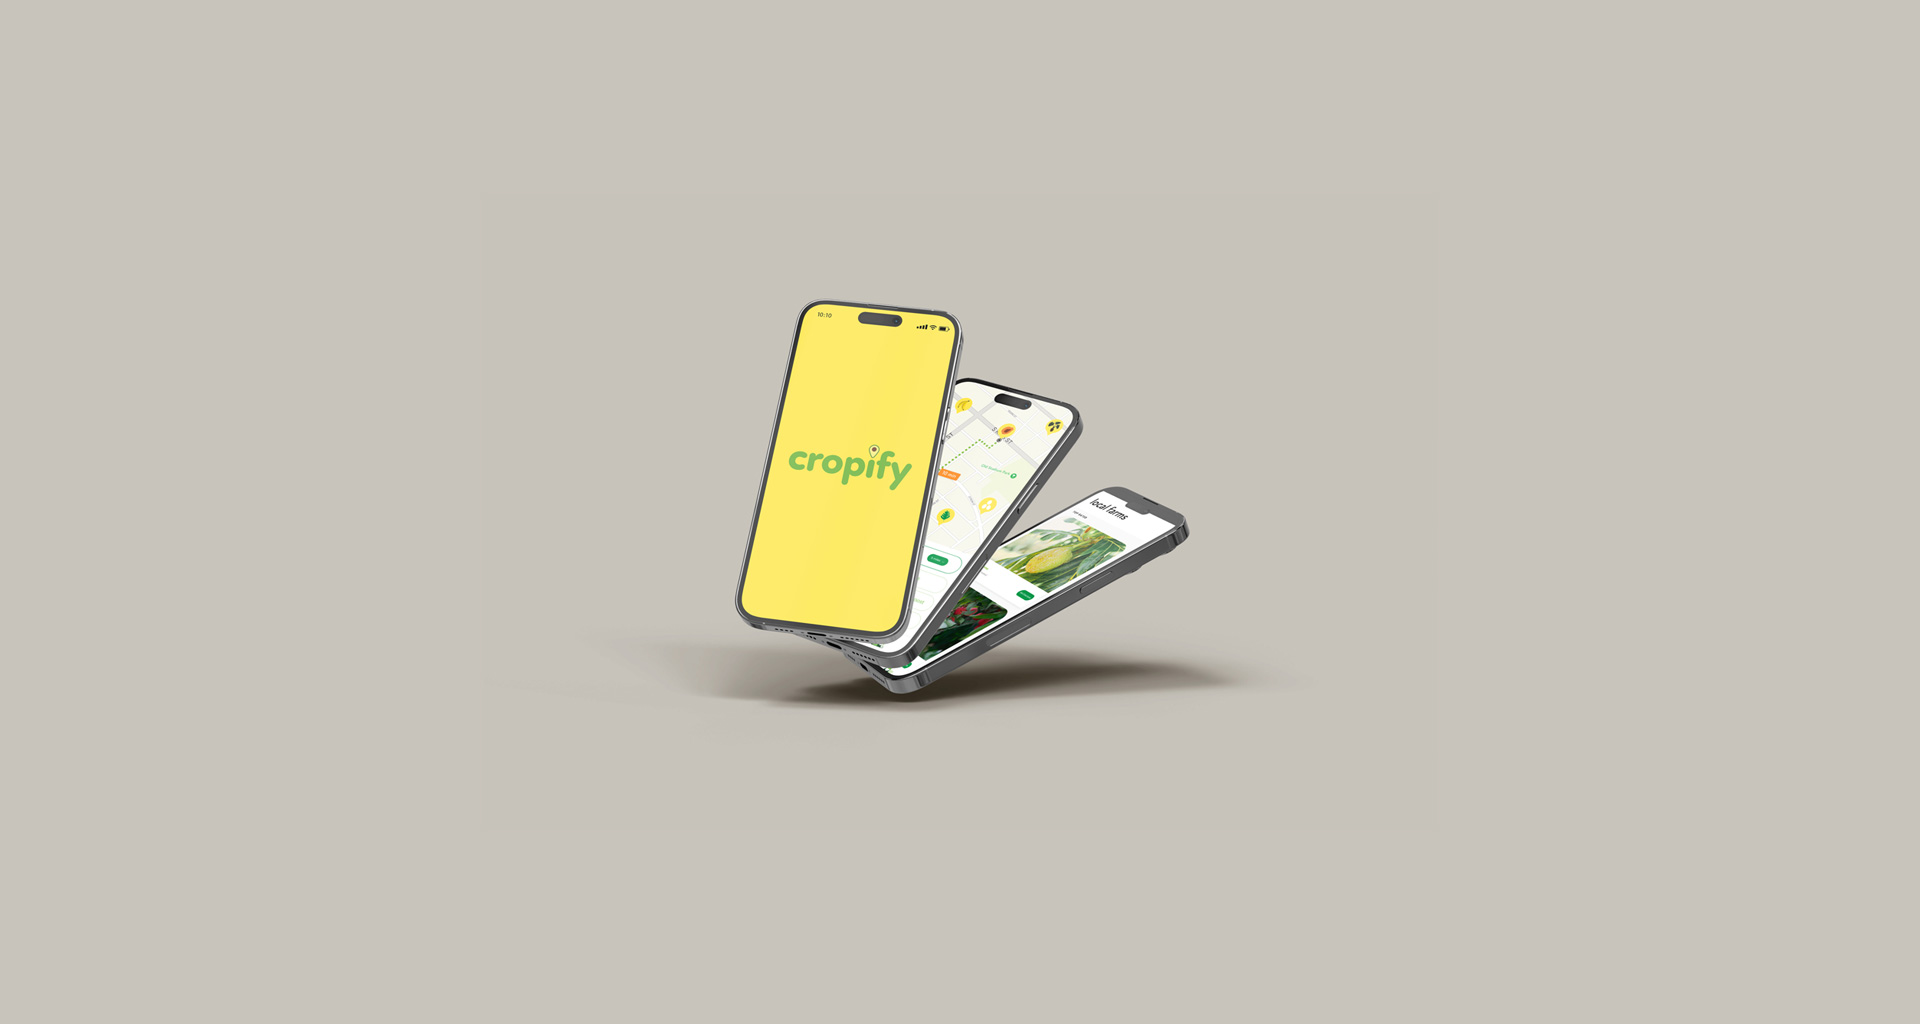
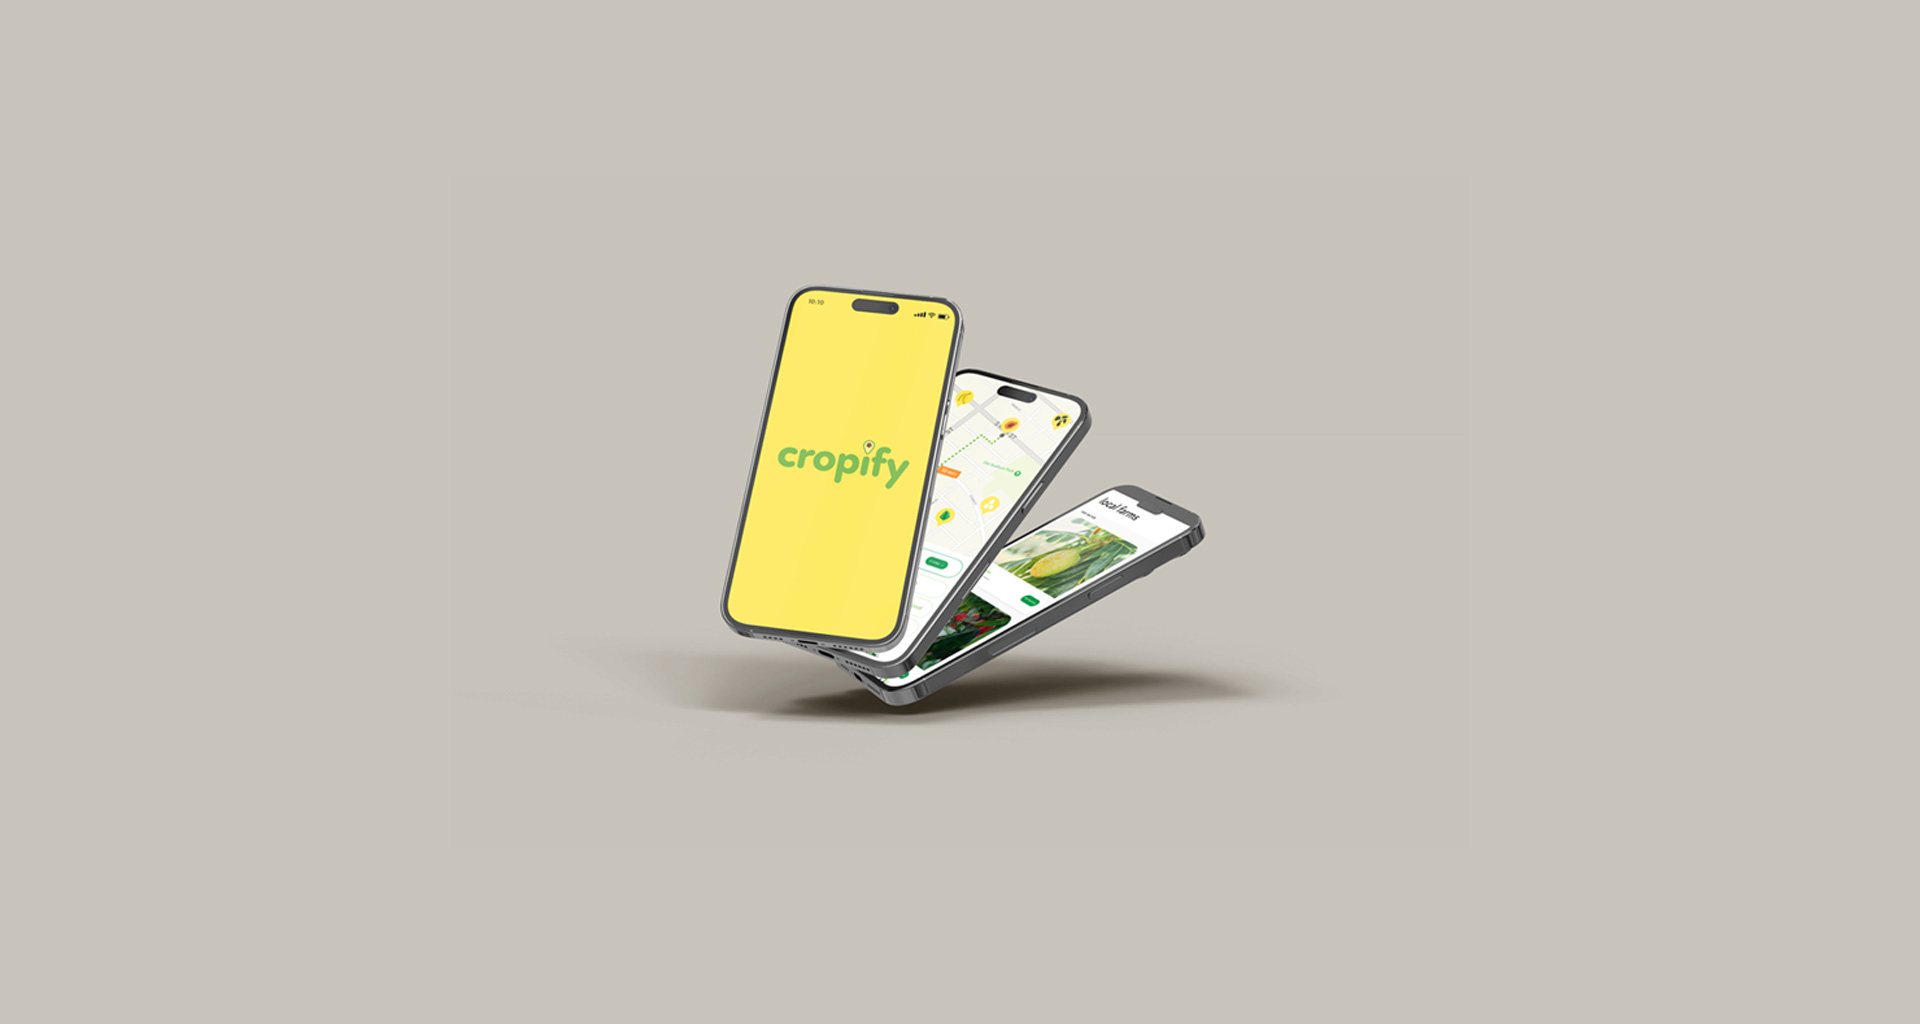
with melissa

Changed region(s): [[0.375, 0.2812, 0.6562, 0.7188]]

diff --git a/hierrlogo.html b/hierrlogo.html
@@ -16,6 +16,11 @@
     <!-- ADOBE FONTS -->
     <link rel="stylesheet" href="https://use.typekit.net/mwq8yta.css">
 
+    <!-- SWIPER JS CSS -->
+    <link rel="stylesheet" href="https://cdn.jsdelivr.net/npm/swiper@11/swiper-bundle.min.css" />
+
+    <script src="https://cdn.jsdelivr.net/npm/swiper@11/swiper-bundle.min.js"></script>
+
     <!-- MAIN CSS FILE -->
     <link href="css/style.css" rel="stylesheet" type="text/css" />
 
@@ -87,11 +92,13 @@
                         </p>
                     </div>
                 </div>
+
+
+                <div class="container hr_"></div>
+
+
             </div>
         </section>
-
-
-        <div class="container hr_"></div>
 
 
         <section>
@@ -117,9 +124,9 @@
         <div class="container hr_"></div>
 
 
-        <section>
+        <section class="brainstorm">
             <div class="container">
-                <div class="row">
+                <div class="row swapped">
                     <div class="col-6">
                         <h3 class="section-title">BRAINSTORM PROCESS</h3>
                         <p>These visuals offer a snapshot of my creative process, displaying various art boards
@@ -129,44 +136,34 @@
                     </div>
                 </div>
 
-                <div class="row">
-                    <div class="col-8">
-                        <div class="video-iframe">
-                            <video class="responsive-iframe" width="382" height="786" style="background-color: #fff;"
-                                src="img/hierrdrafts.mp4" autoplay muted loop playsinline preload></video>
-                        </div>
+
+                <!-- Slider main container -->
+                <div class="swiper">
+                    <!-- Additional required wrapper -->
+                    <div class="swiper-wrapper">
+                        <!-- Slides -->
+
+                        <div class="swiper-slide"><img src="img/logodraft1.jpg" alt=""></div>
+                        <div class="swiper-slide"><img src="img/logodraft2.jpg" alt=""></div>
+                        <div class="swiper-slide"><img src="img/logodraft3.jpg" alt=""></div>
+                        <div class="swiper-slide"><img src="img/logodraft4.jpg" alt=""></div>
+                        <div class="swiper-slide"><img src="img/logodraft5.jpg" alt=""></div>
+                        <div class="swiper-slide"><img src="img/logodraft6.jpg" alt=""></div>
+                        <div class="swiper-slide"><img src="img/logodraft7.jpg" alt=""></div>
+                        <div class="swiper-slide"><img src="img/logodraft8.jpg" alt=""></div>
+                        <div class="swiper-slide"><img src="img/logodraft9.jpg" alt=""></div>
+                        ...
                     </div>
+                    <!-- If we need pagination -->
+                    <div class="swiper-pagination"></div>
 
+                    <!-- If we need navigation buttons -->
+                    <div class="swiper-button-prev"></div>
+                    <div class="swiper-button-next"></div>
 
-                    <!-- Slider main container -->
-                    <div class="swiper">
-                        <!-- Additional required wrapper -->
-                        <div class="swiper-wrapper">
-                            <!-- Slides -->
-                            <div class="swiper-slide">
-                                <img src="https://source.unsplash.com/3tYZjGSBwbk" alt="unsplash" alt="">
-                            </div>
+                </div>
 
-                            <div class="swiper-slide">
-                                <img src="https://source.unsplash.com/3tYZjGSBwbk" alt="unsplash" alt="">
-                            </div>
-
-                            <div class="swiper-slide">
-                                <img src="https://source.unsplash.com/3tYZjGSBwbk" alt="unsplash" alt="">
-                            </div>
-
-                            <!-- If we need pagination -->
-                            <div class="swiper-pagination"></div>
-
-                            <div class="swiper-button-prev"></div>
-                            <div class="swiper-button-next"></div>
-
-                        </div>
-
-
-
-
-                    </div>
+            </div>
         </section>
 
 
@@ -259,6 +256,9 @@
         </nav>
 
     </footer>
+
+    <script src="https://cdn.jsdelivr.net/npm/swiper@11/swiper-bundle.min.js"></script>
+    <script src="js/script.js"></script>
 
 </body>
 

diff --git a/bookcovers.html b/bookcovers.html
@@ -65,11 +65,11 @@
                         </ul>
                     </div>
                     <div class="col-7">
-                        <h1><em>This is Love</em> Book Jackets</h1>
-                        <h3 class="subheader">Podcasts turned book covers.</h3>
+                        <h1><span class="font-italic">This is Love</span> Book&nbsp;Jackets</h1>
+                        <h3 class="subheader">Podcasts turned book covers</h3>
                         <h2>The Challenge</h2>
                         <p>I was challenged to design cohesive book jackets that conceptually represented two stories
-                            from the podcast <em>This is Love.</em></p>
+                            from the podcast <i>This is Love.</i></p>
 
                         <h2>The Solution</h2>
                         <p>
@@ -82,13 +82,17 @@
                         </p>
                     </div>
                 </div>
+
+                <div class="container hr_"></div>
+
             </div>
         </section>
 
+
         <section class="brainstorm">
             <div class="container">
-                <div class="row">
-                    <div class="col-5">
+                <div class="row swapped">
+                    <div class="col-6">
                         <h3 class="section-title">BRAINSTORM PROCESS</h3>
                         <p>I brainstormed and sketched until I identified promising concepts. Transitioning to
                             Illustrator, I experimented with various styles, ultimately selecting one to replicate for
@@ -99,7 +103,7 @@
 
                 <div class="row">
                     <div class="col-12">
-                        <img src="img/bookcoversketch.jpeg" alt="book cover sketch" width="2000" height="1000">
+                        <img src="img/bookcoversketch.jpg" alt="book cover sketch" width="2000" height="1000">
                     </div>
                 </div>
 
@@ -119,12 +123,19 @@
             </div>
         </section>
 
+        <div class="container hr_"></div>
+
         <section>
             <div class="container">
 
                 <div class="row">
-                    <div class="col-5">
+                    <div class="col-6">
                         <h3 class="section-title">FINAL</h3>
+                        <p>In crafting the final book cover designs, I photographed the watercolors to
+                            create a shadow effect. The shadow added a striking but subtle dynamic to the design. My
+                            intention was to ensure that the characters and colors remained
+                            the central focus, solidifying my decision to choose a minimalistic design with subdued
+                            hues. </p>
                     </div>
                 </div>
 

diff --git a/houpressed.html b/houpressed.html
@@ -90,12 +90,12 @@
                         </p>
                     </div>
                 </div>
+
+                <div class="container hr_"></div>
+
+
             </div>
         </section>
-
-
-        <div class="container hr_"></div>
-
 
         <section>
             <div class="container">
@@ -152,14 +152,14 @@
         <div class="container hr_"></div>
 
 
-        <section>
+        <section class="iterations">
             <div class="container">
-                <div class="row">
-                    <div class="col-5">
+                <div class="row swapped">
+                    <div class="col-6">
                         <h3 class="section-title">ITERATIONS</h3>
                         <p>Prior to finalizing my choice, I experimented with a range of label designs, exploring visual
                             elements, typography, and layouts. This iterative process allowed for thorough exploration
-                            and refinement, leading to a well-informed decision on the final design.</p>
+                            and refinement, leading to a well-informed decision on the final&nbsp;design.</p>
                     </div>
                 </div>
 
@@ -181,10 +181,10 @@
                 <div class="row">
                     <div class="col-5">
                         <h3 class="section-title">PRINT PRODUCTION</h3>
-                        <p>The files were organized in layers to facilitate print production, ensuring seamless
-                            execution of the design. Ongoing communication with the print shop was equally as important,
-                            guaranteeing the file was configured accurately and met the necessary specifications for
-                            printing. </p>
+                        <p>The files were organized into layers to streamline the print production process. Ongoing
+                            communication with the print shop was equally as important,
+                            guaranteeing the file was configured accurately and met the necessary specifications
+                            for&nbsp;printing. </p>
                     </div>
                 </div>
 

diff --git a/pictograms.html b/pictograms.html
@@ -64,7 +64,7 @@
                     </div>
                     <div class="one-half">
                         <h1>Olympic Pictograms</h1>
-                        <h3 class="subheader">The mind behind the pictogram designs for the upcoming 2032 Olympic Games.
+                        <h3 class="subheader">If I was hired to create the pictograms for the 2032 Olympics
                         </h3>
                         <h2>The Challenge</h2>
                         <p>I was challenged to create a set of four cohesive pictograms that represented various events
@@ -82,6 +82,10 @@
                         </p>
                     </div>
                 </div>
+
+                <div class="container hr_"></div>
+
+
             </div>
         </section>
 
@@ -99,7 +103,7 @@
 
                 <div class="row">
                     <div class="col-12">
-                        <img src="img/pictogramsketch.jpeg" alt="pictogram sketch" width="2000" height="1000">
+                        <img src="img/pictogramsketch.jpg" alt="pictogram sketch" width="2000" height="500">
                     </div>
                 </div>
 

diff --git a/css/style.css b/css/style.css
@@ -57,6 +57,11 @@ h1 {
   line-height: 1;
 }
 
+.font-italic {
+  font-weight: 700;
+  font-style: italic;
+}
+
 h2 {
   font-size: 3em;
   line-height: 1.1;
@@ -279,6 +284,10 @@ section {
 }
 
 .brainstorm .container {
+  text-align: right;
+}
+
+.iterations .container {
   text-align: right;
 }
 
@@ -918,6 +927,12 @@ figcaption {
 
 /* SWIPER */
 .swiper {
-  /*   width: 600px; */
-  min-height: 300px;
+  width: fit-contain;
+  height: 700px;
+}
+
+/* SWIPER ARROWS */
+.swiper-button-prev,
+.swiper-button-next {
+  color: gray;
 }

diff --git a/js/script.js b/js/script.js
@@ -1,0 +1,21 @@
+const swiper = new Swiper('.swiper', {
+    // Optional parameters
+    direction: 'horizontal',
+    loop: true,
+
+    // If we need pagination
+    pagination: {
+        el: '.swiper-pagination',
+    },
+
+    // Navigation arrows
+    navigation: {
+        nextEl: '.swiper-button-next',
+        prevEl: '.swiper-button-prev',
+    },
+
+    // And if we need scrollbar
+    scrollbar: {
+        el: '.swiper-scrollbar',
+    },
+});

diff --git a/cropify.html b/cropify.html
@@ -44,7 +44,7 @@
 
         <section class="hero">
             <div class="image-wrapper-fullwidth-cover">
-                <img src="img/cropify.jpg" alt="placeholder" width="2000" height="500" />
+                <img src="img/cropifyhero.jpg" alt="placeholder" width="2000" height="500" />
             </div>
         </section>
 
